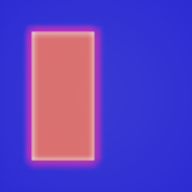
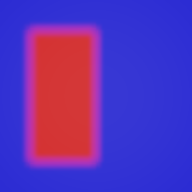
chore: document lens quality tracking temporal validation and GPU timings

Changed region(s): [[0.1562, 0.125, 0.5, 0.8438]]

diff --git a/docs/preview/render-effects.md b/docs/preview/render-effects.md
@@ -43,20 +43,24 @@ fall back safely, and numeric values are checked for finiteness and clamped.
 | View transform | ACES fit, compact AgX approximation, or Khronos PBR Neutral | SDR linear sRGB output followed by hardware sRGB transfer; not Blender OCIO/LUT parity |
 | Exposure / white balance | EV gain and normalized Planckian RGB white-point correction | Approximate white balance, neutral at 6500 K |
 | Anti-aliasing | Off / FXAA / Auto | Spatial filter; no temporal history |
-| Depth of field | Thin-lens signed CoC; half-resolution near/far blur and coverage composite | F-number, animated face/eyes/bone and surface-click focus; perspective camera |
+| Depth of field | Thin-lens signed CoC, depth-aware MIP/ring gathers, near coverage, motion-reprojected history | F-number, bone/face/eye tracking, static/tracked surface clicks, curved aperture blades; perspective camera |
 
 Skin diffuse is separate from specular highlights and hair, so diffusion does
 not smear the final scene image. Transparent overlays and outlines erase the
 skin mask where they draw; this conservatively leaves these boundaries sharp.
 The low-cost transmission approximation also remains useful for backlit skin.
 Screen-space effects cannot recover hidden or off-screen geometry. SSR, SSGI,
-TAA, refractive glass and polygonal aperture bokeh remain separate work.
+general TAA, refractive glass and real-time highlight scatter remain separate work.
 
 The previous-frame background mode uses the direct shading path. Color
 management and material lighting still apply, but HDR postprocessing is bypassed
 in that mode. Normal previews and exported frames use the HDR path.
 
 ## Lens and focus
+
+![Japanese lens and focus controls](lens-controls-ja.png)
+
+[English lens controls](lens-controls-en.png)
 
 Enable **Depth of field**, then open **Lens and focus**. Aperture is an F-number:
 opening from f/5.6 to f/1.4 multiplies the uncapped blur radius by four.
@@ -130,9 +134,13 @@ Normal exports use the same HDR/DoF implementation.
 
 A synthetic red foreground / blue background comparison from the GPU fixture:
 
-| f/32, focus 2.4 m | f/0.7, focus 2.4 m | f/0.7, focus 0.8 m |
-| --- | --- | --- |
-| ![Closed aperture](dof-closed.png) | ![Foreground blur expands](dof-open.png) | ![Foreground in focus](dof-focused.png) |
+| f/32, focus 2.4 m | f/0.7, focus 2.4 m | f/0.7, focus 0.8 m | 64 physical lens samples, f/0.7, focus 2.4 m |
+| --- | --- | --- | --- |
+| ![Closed aperture](dof-closed.png) | ![Foreground blur expands](dof-open.png) | ![Foreground in focus](dof-focused.png) | ![Cinematic HDR integration](dof-cinematic.png) |
+
+The physical lens result uses the uncapped aperture and can reveal the actual
+background shadow hidden behind the foreground. It is not a comparison at an
+identical spatial radius cap.
 
 ## Spatial processing pipeline
 
@@ -140,10 +148,12 @@ A synthetic red foreground / blue background comparison from the GPU fixture:
 Depth / normal prepass -> HDR color + skin diffuse
   -> full-resolution SSS (once per pixel)
   -> full-resolution signed CoC
-  -> depth-compatible 2x2 near/far downsample
+  -> depth-compatible 2x2 near/far downsample + layer MIP chain
   -> 8x8 half-resolution tile ranges + radius dilation
-  -> half-resolution near / far disk gathers
-  -> full-resolution composite -> Bloom -> tone mapping + FXAA
+  -> half-resolution near / far ring gathers with subpixel sampling
+  -> full-resolution small-CoC reconstruction and bilateral composite
+  -> optional motion-reprojected DoF history
+  -> Bloom -> tone mapping + FXAA
 ```
 
 CoC uses sampled/storage R16_SFLOAT when the device enables extended storage
@@ -155,17 +165,34 @@ dummy images for unused descriptors. With both disabled, spatial dispatches are
 skipped. Empty tiles skip disk sampling. No subgroup, RDNA-specific or FP16
 arithmetic instructions are required.
 
+Layer color, alpha-weighted depth and CoC use the same continuous sample
+coordinates. There is no integer rounding of gather offsets. Three or four
+equal-area rings are visited from outer to inner; source footprint chooses a
+trilinear MIP level. The MIP prefilter keeps near and far depth compatibility
+separate. This is an independent implementation inspired by the referenced
+techniques, not an embedded FidelityFX SDK or Unreal implementation.
+
 Near gathers test each source disk's radius against the receiving pixel, so
 foreground coverage can extend beyond the original silhouette. Premultiplied
 RGB and alpha travel together. Far downsampling/gather and upsampling reject
 incompatible depth; near coverage deliberately crosses depth boundaries.
-Near is composed over the far result. Blur activation fades smoothly between
-0.5 and 2 full-resolution pixels so subpixel CoC retains the sharp image.
+Near is composed over the far result. A finite-kernel normalization preserves
+constant foreground radiance. Far occupancy holes under opaque source geometry
+retain opacity; when no background support exists they retain source radiance.
+A full-resolution depth/CoC-compatible 3x3 filter covers small CoC, transitioning
+to the half-resolution reconstruction between 1.5 and 3 full-resolution pixels.
 Hidden background is approximated from available far samples; off-screen or
 occluded detail and the depth of blended glass/hair cannot be reconstructed
-from a single opaque depth layer. Aperture shape is a disk, not polygonal bokeh.
+from a single opaque depth layer.
 
-| DoF quality | Resolution (both axes) | Disk samples | Radius cap at 1080p |
+**Aperture shape** selects a circle or 5–12 blades, curvature and rotation.
+CPU cubic Bezier edges interpolate a polygon toward circular arcs; a 128x128
+mask integrates four subpixel coverage samples. Only changing the shape uploads
+this LUT into frame-owned storage. Gathers use its antialiased coverage and
+normalize their energy. This models the bokeh outline, not a complete optical
+lens or cat-eye effect.
+
+| DoF quality | Resolution (both axes) | Gather taps | Radius cap at 1080p |
 | --- | --- | --- | --- |
 | Performance | 1/2 | 12 | 20 px |
 | Balanced | 1/2 | 24 | 32 px |
@@ -173,24 +200,77 @@ from a single opaque depth layer. Aperture shape is a disk, not polygonal bokeh.
 
 Auto follows the effective device/override preset. Radius caps scale with image
 height; changing viewport resolution does not change the normalized blur size.
-Smaller F-numbers stop increasing blur after the selected cap is reached.
+Smaller F-numbers stop increasing the spatial blur after the selected cap is
+reached. **Blur quality and export** exposes the radius cap at 1080p: zero uses
+the table, a positive override is bounded at 128 px. Increasing the cap can cost
+more even with an unchanged sample budget.
 The legacy intensity remains an optional artistic CoC multiplier; use F-number
 for lens control.
 
-For the included 1080p synthetic scene (focused foreground rectangle, defocused
-background), median warmed DoF GPU times on Radeon Vega 8 / RADV RAVEN with
-validation enabled were:
+### Temporal stability
 
-| Quality | CoC | Downsample / tiles | Near / far | Composite | DoF sum |
+**Temporal DoF** is available in Balanced/High and disabled in Performance and
+still-quality export. The opaque prepass writes packed material/clone IDs and
+motion from the previous deformed vertex stream and camera. This follows GPU
+skinning, morphs, CPU deformation and clone placement. The near gather also
+retains a contributing foreground anchor for blur extending over the background.
+History is reprojected with motion, validated against ID, depth and signed CoC,
+then clamped to the current 3x3 color/alpha range. Disocclusions, invalid anchors,
+alpha discontinuities, focus jumps, camera cuts, backward seeks, long timeline
+steps, topology/setting changes and resize reject history. Four deterministic
+sample orientations accumulate while history is valid. The first frame after
+invalidation uses orientation zero.
+
+History images and previous vertices are GPU-owned on the graphics queue;
+barriers order reads, copies and subsequent frames. Camera buffers/descriptors
+belong to completed frame slots. Returning to Performance drops the extra motion
+attachments and shrinks the shared history. This is DoF stabilization, not
+whole-scene TAA. Very thin blended hair has no opaque motion/depth representation;
+those boundaries remain approximate.
+
+### Cinematic image export
+
+**Blur quality and export → Cinematic lens samples** selects Off, 64, 128 or 256
+for Preview image/image-sequence exports. The existing output sample count can
+request more. A low-discrepancy disk is mapped through the shared aperture boundary's angular
+area CDF, retaining uniform density without a pixel-grid distribution. Each
+sample uses an off-axis perspective projection: geometry on the focal plane
+stays fixed and other depths move across the aperture. The existing float32 HDR
+accumulator averages radiance before its image resolve. Spatial DoF and temporal
+history are disabled during physical lens samples; pixel jitter and requested
+motion blur can be combined. Cancellation and completion restore the central
+preview camera. Orthographic keys suspend the lens shift.
+
+Physical accumulation uses the uncapped lens aperture, so it can exceed the
+spatial radius cap. It costs 64–256 scene renders and is deliberately separate
+from interactive preview. The video exporter uses temporal spatial DoF; physical
+lens accumulation is available through image sequences. The existing Preview
+image-sequence resolve uses ACES and does not reapply the selected view transform,
+exposure/white balance, Bloom or FXAA after HDR averaging. It therefore does not
+yet provide full postprocessing parity with the viewport.
+
+### GPU measurements
+
+On Radeon Vega 8 / RADV RAVEN, the 1080p synthetic fixture used six renders per
+quality, discarded three warm-ups and took per-pass medians of the remaining
+three. Vulkan and synchronization validation were enabled. Spatial results
+below explicitly disable temporal stabilization:
+
+| Quality | CoC | Downsample / tiles / MIPs | Near / far | Composite | DoF sum |
 | --- | --- | --- | --- | --- | --- |
-| Performance | 1.04 ms | 2.79 ms | 4.29 ms | 5.06 ms | 13.18 ms |
-| Balanced | 1.04 ms | 2.78 ms | 8.19 ms | 5.06 ms | 17.07 ms |
-| High | 1.04 ms | 2.82 ms | 10.93 ms | 5.02 ms | 19.81 ms |
+| Performance | 0.48 ms | 2.46 ms | 1.67 ms | 6.00 ms | 10.62 ms |
+| Balanced | 0.48 ms | 2.42 ms | 2.82 ms | 5.80 ms | 11.53 ms |
+| High | 0.47 ms | 2.42 ms | 3.72 ms | 5.56 ms | 12.18 ms |
 
-These figures exclude scene rendering, SSS, Bloom and tone mapping. They are
-measurements of this fixture, not a whole-frame or complex-model performance
-promise. Start with Performance on an APU; opening the lens does not remove the
-selected blur-radius cap.
+With temporal enabled, Balanced/High measured 15.76 / 16.36 ms for DoF including
+history resolve/copies. Their separate opaque motion/ID prepass measured
+3.02 / 3.07 ms and is included in the AO/depth profiler bucket, not the DoF sum.
+These figures exclude scene rendering, SSS, Bloom and tone mapping. GPU clocks,
+cache and other load change timings; a separate run measured spatial sums of
+11.22 / 12.17 / 14.47 ms. The former integer-gather implementation's historical
+13.18 / 17.07 / 19.81 ms are not a controlled speedup comparison. This fixture is
+not a whole-frame or complex-model performance promise. Start with Performance
+on an APU.
 
 ## Runtime behavior
 
@@ -215,7 +295,9 @@ values. A device without timestamp support displays an unavailable message.
 zero intensity, unsupported effects, malformed values, project round trips,
 legacy loading and unknown-field preservation without a GPU. It also checks
 F-number/radius scaling, signed CoC, rotated camera unprojection, animated bone
-positions and eye/head fallbacks. Lens persistence and malformed fields are
+positions, distinct face/eye anchors, rotated local offsets, clone binding,
+fractional VMD evaluation, AF response/deadband/speed/reset, aperture area and
+coverage, physical lens distributions, and eye/head fallbacks. Lens persistence and malformed fields are
 covered by the same suite; it also passes Clang ASan/UBSan.
 
 `preview_render`, `preview_render_high` and `preview_render_async` cover real
@@ -262,3 +344,13 @@ these presets do not promise a frame rate on every Vega 8 system.
 The compact AgX approximation is not a complete implementation of Blender's
 color management. Validate production looks against the intended output images,
 not only the view-transform name.
+
+The animated GPU fixture renders a moving skinned foreground and camera for 32
+frames, checks disoccluded background, backward seeks and camera cuts against
+fresh spatial frames, and verifies a 64-sample physical HDR lens integration.
+Set `DAYO_TEST_DOF_OUTPUT` to save spatial/Cinematic images and temporal frames.
+These are synthetic regression scenes, not a measured claim for every PMX/VMD.
+
+[Animated GPU fixture: 32 frames, played at 5x slow motion](dof-temporal.mp4).
+The test animates a skinned rectangle and camera; it is not a character-video
+benchmark or evidence of full PMX hair/cloth coverage.
